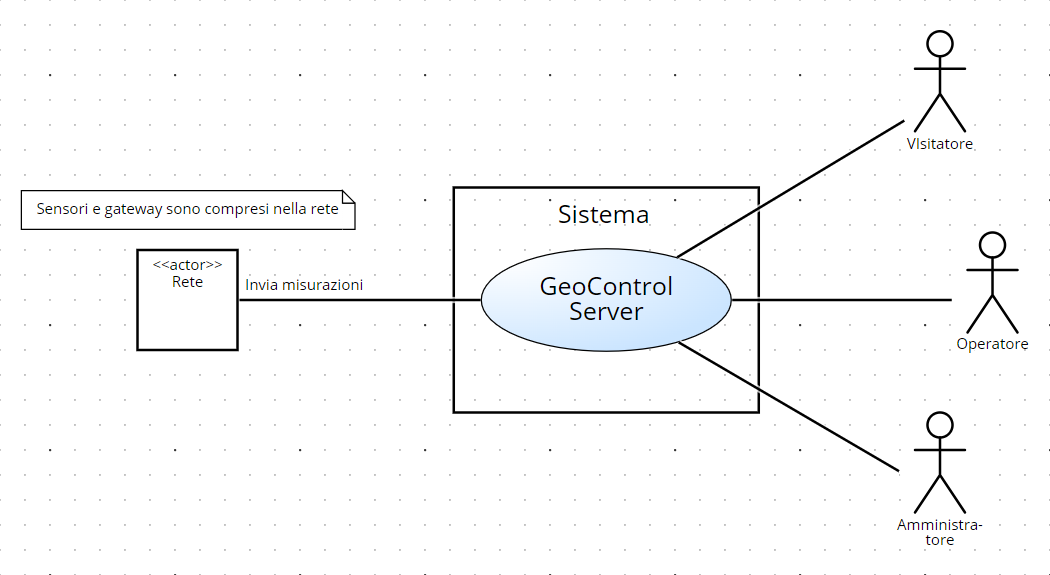
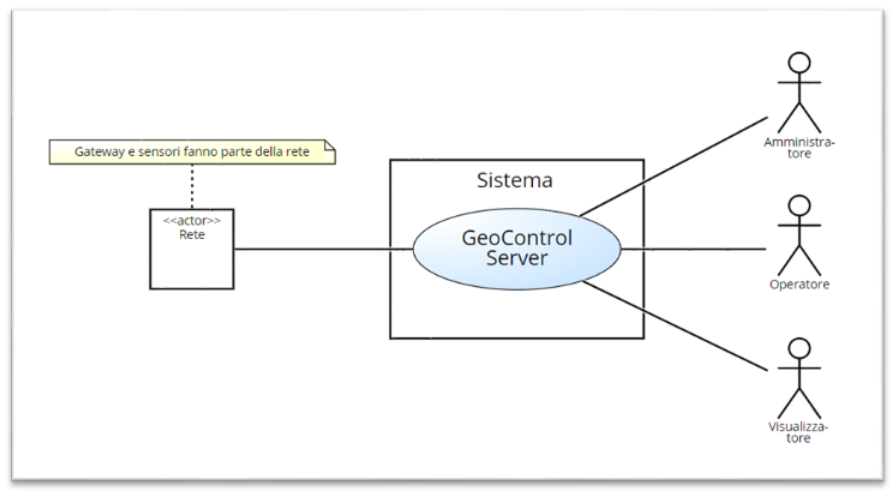
Correzione business model e errori di scrittura

Changed region(s): [[0.0, 0.0304, 0.9955, 1.0], [0.7844, 0.0304, 0.9352, 0.3347], [0.7542, 0.3043, 0.7844, 0.3347]]

diff --git a/doc/Requirements.md b/doc/Requirements.md
@@ -61,24 +61,30 @@ GeoControl è un sistema software progettato per monitorare variabili fisiche e 
 
 # Business Model
 
-Il prodotto è commissionato inizialmente dall' Unione delle Comunità Montane della regione Piemonte per la gestione dello stato idrogeologico del territorio, che quindi paga per il prodotto, lasciando i diritti sul software all'azienda sviluppatrice. <br> GeoControl, grazie alla struttura modulare del software, ha potuto commercializzare il prodotto immettendolo sul mercato con il fine di distribuirlo ad altre diverse entità pubbliche e private. 
+Geo Control è una piattaforma commissionata dall'Unione delle Comunità Montane della Regione Piemonte, finalizzata alla gestione e al monitoraggio dello stato idrogeologico del territorio.  
 
-- Le aziende private possono decidere di richiedere una valutazione per l’installazione dei sensori richiesti. La spesa come preventivo sarà eventualmente rimborsato se l’azienda decidesse di firmare il contratto. Il contratto avrà una scadenza decennale, quinquennale, triennale con la possibilità di ricevere uno sconto nel caso le aziende decidessero di avere un piano che copre più anni, il pagamento avviene annualmente. Inoltre ci saranno piani diversi a seconda di quanti sensori l’azienda può installare: 
- 
-  - Contratto base: numero di sensori basso (es. 50 sensori)
-  - Contratto business: numero di sensori elevato (es. 250 sensori)
-  - Contratto pro: numero di sensori illimitato → chiedere numero di sensori
-- Gli enti pubblici possono usurfruire di sconti per contratti pro da contrattulaizzare caso per caso
-- •	Fornitura, installazione e la manutenzione di sensori e gateway è affidato a un’azienda esterna affiliata a GeoControl.
+I diritti di proprietà intellettuale sul software restano in capo all’azienda sviluppatrice, la quale detiene piena facoltà di sfruttamento commerciale del prodotto.  
+
+Grazie alla sua architettura modulare, il software è predisposto per la distribuzione su scala più ampia, potendo essere proposto sul mercato a enti pubblici e privati che necessitano di un monitoraggio continuativo dei parametri fisici relativi alle proprie aree di competenza.  
+
+L’accesso a Geo Control avviene tramite la sottoscrizione di contratti di licenza a durata determinata, con un costo variabile in funzione della durata del contratto stesso della dimensione delle aree da monitorare. Durante il periodo di validità contrattuale, sono garantiti il supporto tecnico, l’assistenza dedicata e l’aggiornamento costante sia del software sia dell’interfaccia utente.  
+
+Il contratto non può essere interrotto anticipatamente se non previo pagamento di una penale. Alla scadenza, l’acquirente ha facoltà di rinnovare e/o ricontrattare il contratto o di cessarne l’utilizzo.  
+
+Tutta l’infrastruttura fisica e tecnica, comprensiva di gateway, reti e sensori, è gestita da soggetti terzi.  
+
+Geo Control si occupa esclusivamente della gestione, archiviazione e consultazione dei dati trasmessi da tali dispositivi. 
 
 # Stakeholders
 
 | Stakeholder | Descrizione |
 | :--------------: | :---------: |
-| Visualizzatore | Utilizzano il servizio consultando i dati   |
-| Operatore |  Aggiornamento e manutenzione software di reti, gateway e sensori  |
-| Amministratore |  Amministrazione di tutte le risorse (reti e utenti)    |
-| Azienda esterna |   Installazione di nuove reti e manutenzione fisica delle reti esistenti   |
+|Ente pubblico/privato| Acquisto del servizio|
+| Visualizzatore | Consultazione dei dati|
+| Operatore |  Gestione di reti, gateway e sensori e inserimento misurazioni  |
+| Amministratore |  Accesso completo a tutte le risorse (gestione degli utenti e della rete)    |
+| Tecnico esterno |   Installazione, manutenzione e rimozione in loco di sensori e gateway    |
+| Tecnico di sistema | Manutenzione e aggiornamento del sistema  |
 
 # Context Diagram and interfaces
 
@@ -90,7 +96,7 @@ Il prodotto è commissionato inizialmente dall' Unione delle Comunità Montane d
 
 |   Attore   | Interfaccia logica | Interfaccia fisica |
 | :-------: | :---------------: | :----------------: |
-| Rete |  Connessione (via API)  |  API per inviare le misurazioni in formato JSON     |
+| Rete |  Connessione internet (via API)  |  API per inviare le misurazioni in formato JSON     |
 |  Utente  | PC | GUI |
 |  Operatore  | PC | GUI |
 |  Admin  | PC | GUI + console di comando |
@@ -114,53 +120,54 @@ Sono attratti in particolare dal fatto che il sistema è stato sviluppato su com
 
 |  ID   | Description |
 | :---: | :---------: |
-|  FR1  | Autenticazione con token univoco  |
+|  FR1  | Autenticazione e autorizzazione con token univoco |
 |||
 |  FR2  | Gestione utenti|
 | 2.1 | Creazione nuovo utente |
 | 2.2 | Eliminazione di un utente |
-| 2.3 | Accesso alla lista degli utenti |
-| 2.4 | Accesso ad uno specifico utente |
+| 2.3 | Visualizzazione della lista degli utenti |
+| 2.4 | Visualizzazione di uno specifico utente |
 |||
 |  FR3  | Gestione delle reti|
 | 3.1 | Creazione di una nuova rete |
 | 3.2 | Aggiornamento di una rete esistente |
 | 3.3 | Eliminazione di una rete |
-| 3.4 | Accesso ad una rete specifica |
-| 3.5 | Accesso a tutte le reti |
+| 3.4 | Visualizzazione di una rete specifica |
+| 3.5 | Visualizzazione di tutte le reti |
 |||
 |  FR4  | Gestione dei gateway|
 | 4.1 | Creazione di un nuovo gateway nella rete |
 | 4.2 | Aggiornamento di un gateway esistente |
 | 4.3 | Eliminazione di un gateway esistente |
-| 4.4 | Accesso a tutti i gateway di una rete |
-| 4.5 | Accesso ad uno specifico gateway |
+| 4.4 | Visualizzazione di tutti i gateway di una rete |
+| 4.5 | Visualizzazione di uno specifico gateway |
 |||
 |  FR5  | Gestione dei sensori |
 | 5.1 | Creazione di un nuovo sensore |
 | 5.2 | Aggiornamento di un sensore esistente |
 | 5.3 | Eliminazione di un sensore esistente |
-| 5.4 | Accesso a tutti i sensori di un gateway |
-| 5.5 | Accesso ad uno specifico sensore |
+| 5.4 | Visualizzazione di tutti i sensori di un gateway |
+| 5.5 | Visualizzazione di uno specifico sensore |
 |||
 |  FR6  | Gestione delle misurazioni |
 | 6.1 | Archiviazione delle misurazioni di un sensore |
 | 6.2 | Gestione dei timestamp |
 | 6.2.1 | Conversione in formato ISO 8601 con riferimento UTC |
-| 6.2.2 | Conversione in fuso orario locale per l’accesso ai dati |
-| 6.3 | Accesso alle misurazioni di un set di sensori di una rete |
-| 6.4 | Accesso alle misurazioni di uno specifico sensore |
+| 6.2.2 | Conversione in fuso orario locale per la visualizzazione dei dati |
+| 6.3 | Visualizzazione delle misurazioni di un set di sensori di una rete |
+| 6.4 | Visualizzazione delle misurazioni di uno specifico sensore |
 |||
 |  FR7  | Gestione delle statistiche |
 | 7.1 | Calcolo delle media |
 | 7.2 | Calcolo della varianza |
 | 7.3 | Calcolo delle soglie |
 | 7.4 | Identificazione di anomalie secondo soglie |
-| 7.5 | Accesso alle statistiche di un set di sensori di una specifica rete |
-| 7.6 | Accesso alle anomalie di un set di sensori di una specifica rete |
-| 7.7 | Accesso alle statistiche di un sensore |
-| 7.8 | Accesso alle anomalie di un sensore |
+| 7.5 | Visualizzazione delle statistiche di un set di sensori di una specifica rete |
+| 7.6 | Visualizzazione delle anomalie di un set di sensori di una specifica rete |
+| 7.7 | Visualizzazione delle statistiche di un sensore |
+| 7.8 | Visualizzazione delle anomalie di un sensore |
 |||
+| FR 8 | Sistema di log per gestione degli errori |
 
 ## Non Functional Requirements
 
@@ -170,12 +177,12 @@ Sono attratti in particolare dal fatto che il sistema è stato sviluppato su com
 | :-----: | :--------------------------------: | :---------: | :-------: |
 |  NFR1   |    dominio  | timestamp in formato ISO 8601 |   FR 6.2    |
 |  NFR2   |        dominio       | unità di misura del SI |   FR 6  |
-|  NFR3   |        dominio       | Gli elementi del sistema sono identificati univocamente| FR 3, FR 4, FR 5    |
+|  NFR3   |        dominio       | gli elementi del sistema sono identificati univocamente| FR 3, FR 4, FR 5    |
 |  NFR4   |        affidabilità   | il sistema non deve perdere più di 6 misurazioni all'anno (per sensore)|    FR6    |
-|  NFR5   | usabilità | l'utente viewer non deve avere bisogno di training |    FR 2    |
-|  NFR6   | usabilità | un utente 'operatore' deve imparare a usare il software in meno di 16 ore di training |   FR 2     |
-|  NFR7   | usabilità | un utente 'admin' deve imparare a usare il software in meno di 24 ore di training |   FR 2     |
-|  NFR8   |  sicurezza      | protenzione da accessi esterni | FR1 |
+|  NFR5   | usabilità | l'utente 'visualizzatore' non deve avere bisogno di training |    FR 2    |
+|  NFR6   | usabilità | un utente 'operatore' deve imparare a usare il software in meno di 4 ore di training |   FR 2     |
+|  NFR7   | usabilità | un utente 'amministratore' deve imparare a usare il software in meno di 8 ore di training |   FR 2     |
+|  NFR8   |  sicurezza      | protenzione da accessi esterni non autorizzati | FR1 |
 |  NFR9  |  portabilità     | L’applicazione web deve essere disponibile sui seguenti browser: • Chrome (da versione ...) • Firefox (da versione ...) • Safari • Opera| Tutti  |
 
 
